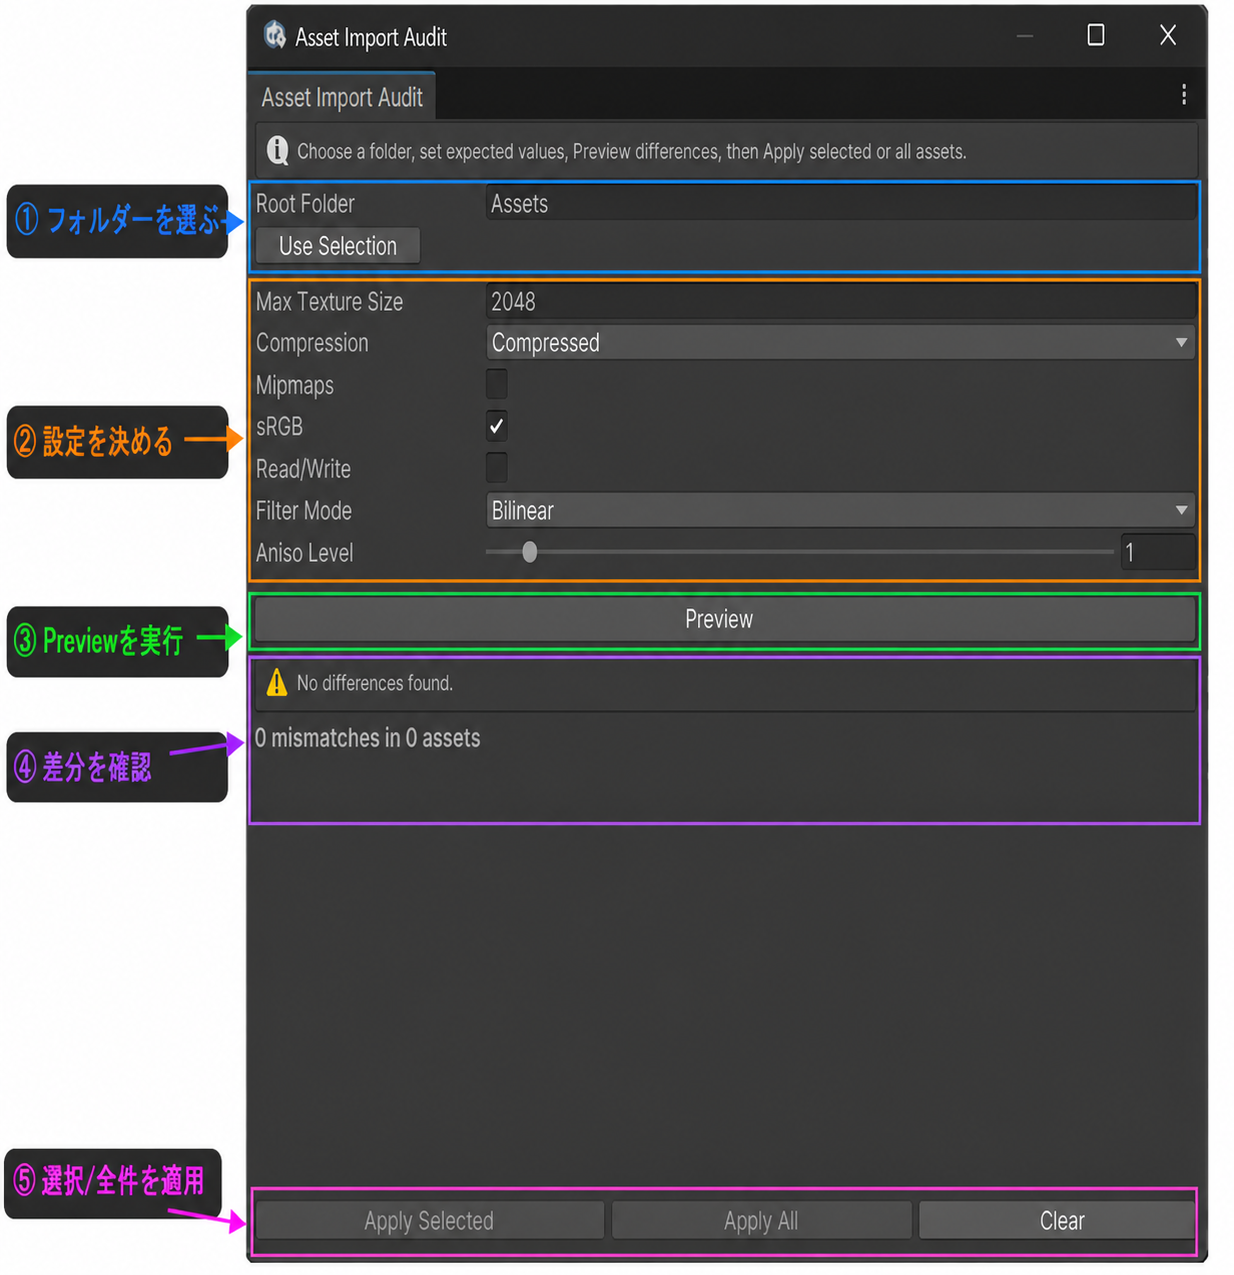
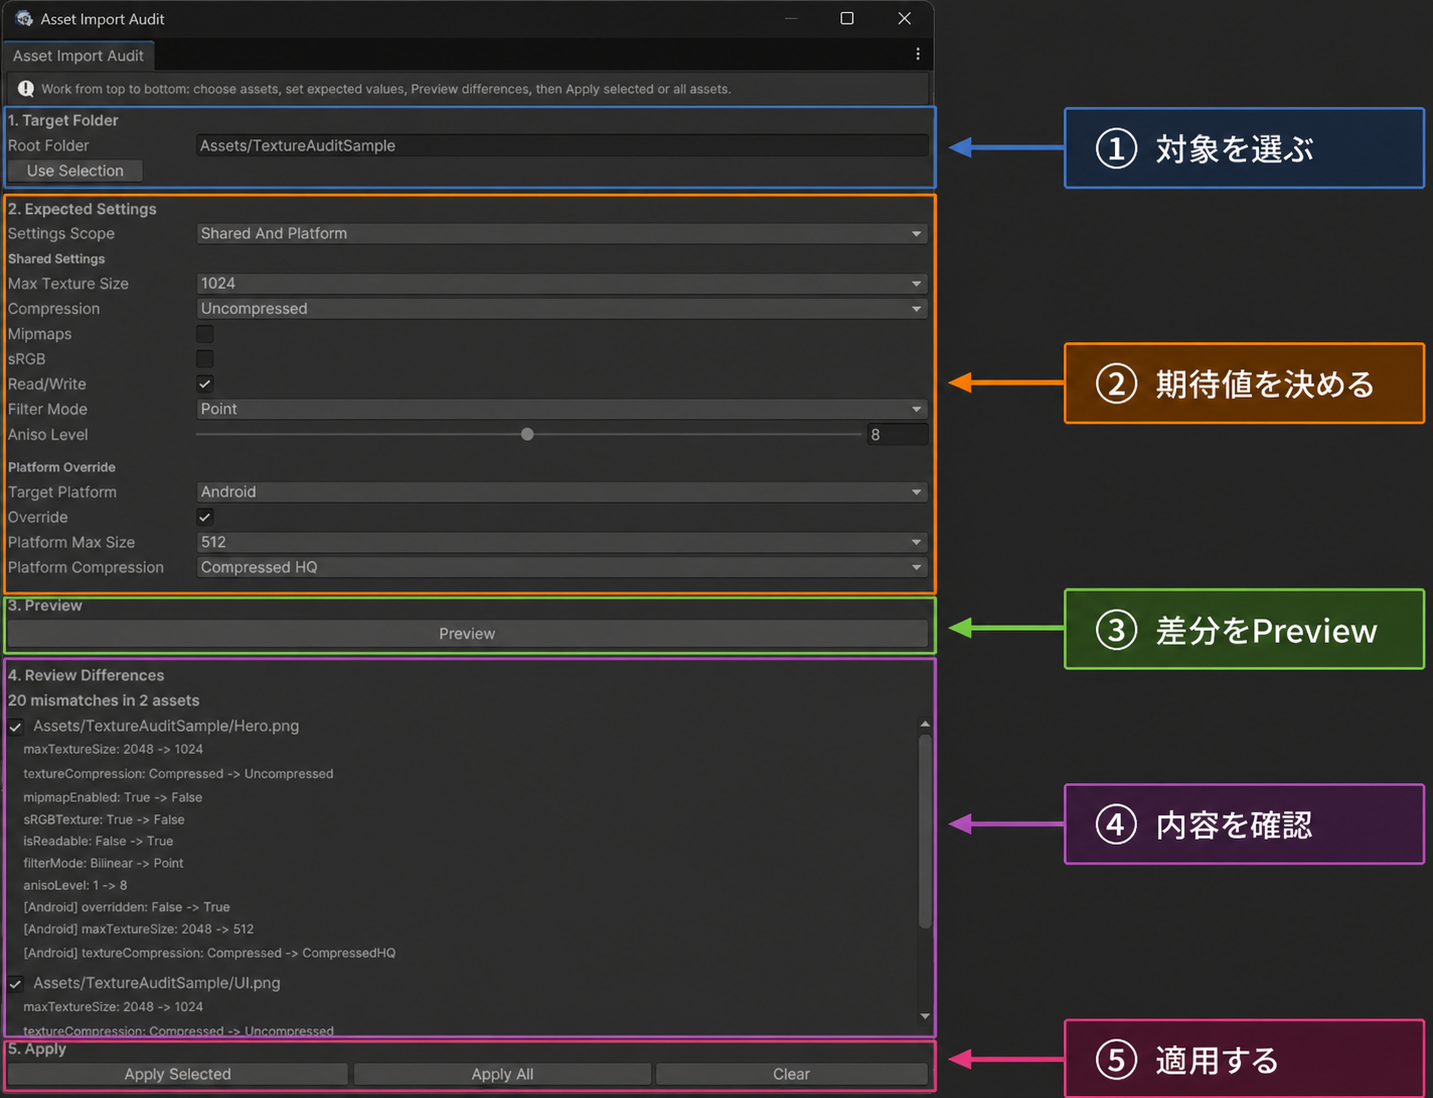
other (AssetImportAudit配布情報): プラットフォーム設定の操作順と変更範囲を導入前に判断できるようにする為、README・利用文書・操作画像・UPM情報を更新

diff --git a/AssetImportAudit/README.md b/AssetImportAudit/README.md
@@ -2,44 +2,84 @@
 
 ## 30秒で分かる説明
 
-Texture Import Settings をフォルダー単位で一覧化し、同じ設定へそろえるための Editor 専用ツールです。毎回 Inspector を開いて texture を1枚ずつ確認する作業を、5段階の手順にまとめます。
-
-## 最短の使い方
-
-1. Package Manager へ公開 tag の Git URL を追加します。
-2. `Tools > Asset Import Audit > Open` を開きます。
-3. `Root Folder` に `Assets/Art/Textures` などを入力するか、Project window でフォルダーを選んで `Use Selection` を押します。
-4. Max Texture Size などの期待値を決めます。
-5. `Preview` で差分を確認し、対象を選んで `Apply Selected`、または全件を `Apply All` します。
-
-![アセット設定チェックの操作順](Documentation~/asset-import-audit-guide.png)
-
-画像の番号どおり、①フォルダーを選ぶ → ②設定を決める → ③Previewを実行 → ④差分を確認 → ⑤選択/全件を適用、の順に操作します。
-
-初期値は一般的なカラーテクスチャ向けです。最大サイズ 2048、Compression、Mipmaps 無効、sRGB 有効、Read/Write 無効、Bilinear、Aniso 1 になっています。プロジェクトの用途に合わせて Preview 前に変更してください。
+Texture Import Settingsをfolder単位で一覧化し、共通設定とStandalone・Android・iOS向け設定をまとめてそろえるEditor専用ツールです。Textureを1枚ずつ選び、Inspector下部のplatform tabを何度も開く作業を、Previewから適用までの5段階にまとめます。
 
 ## できること
 
-- `Assets` 配下の Texture2D を決定論的なパス順で検査する。
-- Max Texture Size、Compression、Mipmaps、sRGB、Read/Write、Filter Mode、Aniso Level を比較する。
-- Preview 時点の importer 状態を保持し、Apply 前に外部変更を検出する。
-- 選択した asset だけ、または差分のある asset 全件を適用する。
+- `Assets`配下のTexture2Dを決定論的なpath順で検査する。
+- 共通のMax Texture Size、Compression、Mipmaps、sRGB、Read/Write、Filter Mode、Aniso Levelを比較・適用する。
+- Standalone・Android・iOSのOverride、Max Texture Size、Compressionを比較・適用する。
+- 共通設定だけ、platform設定だけ、または両方を一度にPreviewする。
+- Max Texture SizeをUnity Importerのpreset（32～16384）から選び、再Previewで確実に収束させる。
+- Preview後の外部変更を検出し、選択対象を一部だけ更新せず全件停止する。
+- 選択したAssetだけ、または差分のあるAsset全件を適用する。
 
-## 変更範囲と安全策
+## 使わない方がよい場合
 
-- 対象は入力した `Assets` フォルダー以下の Texture2D だけです。
-- Package、Scene、Prefab、Material、参照、ファイル名は変更しません。
-- Preview 後に importer が変わっていれば、全件を適用せず `StalePlan` で停止します。
-- Apply 後の再importは Unity の通常の importer 処理で行われます。大きなフォルダーでは時間とメモリを使うため、最初は小さいサブフォルダーで確認してください。
-- これは unused asset 検出や圧縮方式の自動最適化ではありません。正しい値はプロジェクト側で選びます。
+画像を見て自動的に最適な圧縮形式を選びたい場合や、Addressables・Resourcesの参照、unused asset、削除・Renameを調べたい場合には向きません。このツールは利用者が決めたImporter設定を安全にそろえる用途へ限定しています。
 
-## 公開 API
+## 3分で試す
 
-- `AssetImportAuditTextureSettings`: 期待する Texture Import Settings。
-- `AssetImportAuditService.Preview`: 差分と再確認用 plan を作成。
-- `AssetImportAuditService.Apply`: plan を全件または選択 asset へ適用。
-- `AssetImportAuditPlan` / `AssetImportAuditIssue` / `AssetImportAuditApplyResult`: Preview と結果を確認する値。
+1. Package Managerの`Add package from git URL...`へ次を入力します。
+
+   ```text
+   https://github.com/mynameisGaku/UnityModules.git?path=/AssetImportAudit#asset-import-audit-v1.1.0
+   ```
+
+2. `Tools > Asset Import Audit > Open`を開きます。
+3. ①`Root Folder`へ`Assets/Art/Textures`などを入力するか、Project windowでfolderを選んで`Use Selection`を押します。
+4. ②`Settings Scope`を選び、共通設定またはplatform overrideの期待値を決めます。iOSはUnity内部の`iPhone`設定へ対応します。
+5. ③`Preview`を押します。
+6. ④Assetごとの現在値と期待値を確認し、適用するAssetを選びます。
+7. ⑤`Apply Selected`または`Apply All`を押します。
+
+![アセット設定チェックの操作順](Documentation~/asset-import-audit-guide.png)
+
+<details>
+<summary>注釈を加える前の実際のEditorWindow</summary>
+
+![実際のAsset Import Audit画面](Documentation~/asset-import-audit-window.png)
+
+</details>
+
+## 実行するとどうなるか
+
+差分があるAssetはpathごとに並び、共通設定は設定名、platform設定は`[Standalone]`・`[Android]`・`[iOS]`付きで現在値から期待値への変化を表示します。Applyすると対象TextureがUnityの通常処理で再importされ、完了後に同じ条件で再Previewされます。差分がなくなれば`No differences found.`と表示されます。
+
+platform overrideを無効にする場合は、Overrideだけを無効化します。Texture format、resize algorithm、compression qualityなど、このmoduleが所有しないplatform設定は保持します。active build targetは切り替えません。
+
+## よくある問題
+
+### Applyが`StalePlan`で止まる
+
+Preview後にInspector、script、別のEditor拡張などが対象Importerを変更しています。現在の状態を勝手に上書きしないための停止です。もう一度Previewして差分を確認してください。
+
+### platformのCompression形式を自動選択してほしい
+
+端末世代、画質、alpha、配布先によって正解が異なるため、自動推測しません。このmoduleが扱う`TextureImporterCompression`はUnityのLow・Normal・High相当の方針です。具体的なGPU formatはUnityのImporterと利用側のtarget方針で決めてください。
+
+### 大きなfolderで時間がかかる
+
+ApplyしたTextureは再importされます。最初は小さいsubfolderを選び、差分と所要時間を確認してから範囲を広げてください。
+
+## 公開API
+
+- `AssetImportAuditTextureSettings`: 共通Texture Import Settings。
+- `AssetImportAuditTexturePlatformSettings`: platform overrideの期待値。
+- `AssetImportAuditTextureAuditSettings`: 共通・platform・両方の検査範囲。
+- `AssetImportAuditService.Preview`: 差分と再確認用planを作成する。
+- `AssetImportAuditService.Apply`: planを全件または選択Assetへ適用する。
+- `AssetImportAuditPlan` / `AssetImportAuditIssue` / `AssetImportAuditApplyResult`: Previewと結果を確認する値。
+
+## 変更範囲と失敗条件
+
+- 対象は入力した`Assets` folder以下のTexture2Dだけです。
+- Package、Scene、Prefab、Material、参照、file名、画像dataは変更しません。
+- selected applyでは、選択した全Importerを先に再確認します。1件でも消失・変更していれば、選択対象を1件も変更しません。
+- Apply開始後の予期しないUnity Importer例外について、transaction rollbackは保証しません。結果が`ApplyFailed`の場合はImporterを確認して再Previewしてください。
+- `ApplyFailed`の`AppliedAssetCount`には、例外が起きる前に再importまで完了したAsset数が入ります。
+- platform format、resize algorithm、Crunch、compression quality、alpha split、Android ETC2 fallbackは変更しません。
 
 ## 非目標
 
-Addressables、Resources の依存解析、unused asset 判定、画像内容の品質判定、ファイル削除・Rename、参照置換、build 時の自動変更は扱いません。
+Addressables、Resourcesの依存解析、unused asset判定、画像内容の品質判定、file削除・Rename、参照置換、build時の自動変更、active build target切替、platform formatの自動推測は扱いません。

diff --git a/AssetImportAudit/Documentation~/index.md b/AssetImportAudit/Documentation~/index.md
@@ -1,23 +1,46 @@
-# アセット設定チェック 1.0.0
+# アセット設定チェック 1.1.0
 
 ## 目的
 
-Texture Import Settings のばらつきを、対象フォルダー単位で確認して安全にそろえます。Build Guard が Scene と Prefab の不備、Reference Finder が参照と Rename を担当するのに対し、この module は importer の設定だけを担当します。
+Texture Import Settingsのばらつきを、対象folder単位で確認して安全にそろえます。共通設定に加え、Standalone・Android・iOS向けOverrideを同じ画面でPreviewできます。Build GuardはSceneとPrefabの不備、Reference Finderは参照とRename、このmoduleはImporter設定を担当します。
 
-## 使い方
+## 操作順
 
-`Tools > Asset Import Audit > Open` で画面を開き、①対象 `Assets` フォルダーを選び、②期待値を指定し、③`Preview` を押します。④差分を確認したら、⑤`Apply Selected` または `Apply All` を押してください。Apply 前に importer の値が変わっていた場合は、Preview をやり直すまで停止します。
+1. ①`Assets`配下の対象folderを選びます。
+2. ②`Settings Scope`をShared Settings、Platform Override、Shared And Platformから選び、期待値を設定します。
+3. ③`Preview`を押します。
+4. ④pathごとの現在値と期待値を確認します。
+5. ⑤`Apply Selected`または`Apply All`を押します。
 
 ![アセット設定チェックの操作順](asset-import-audit-guide.png)
 
-## 設定項目
+## 共通設定とplatform設定
 
-Max Texture Size、Texture Compression、Mipmap Enabled、sRGB Texture、Read/Write、Filter Mode、Aniso Level を比較・適用します。値の意味は Unity の Texture Import Settings に従います。
+| Scope | 比較・適用する値 |
+| --- | --- |
+| Shared Settings | Max Texture Size、Texture Compression、Mipmap Enabled、sRGB Texture、Read/Write、Filter Mode、Aniso Level |
+| Platform Override | Standalone・Android・iOSのOverride、Max Texture Size、Texture Compression |
+| Shared And Platform | 上記の両方 |
 
-## 変更されないもの
+iOSはUnityのImporter APIで`iPhone`というplatform名へ対応します。active build targetは変更しません。Overrideを無効にする場合はOverrideだけを変更し、Max Texture Size、Compression、format、resize algorithmなど他の値は保持します。
 
-Package 配下、Scene、Prefab、Material、Asset の参照、ファイル名、画像データそのものは変更しません。削除や unused 判定も行いません。
+Max Texture SizeはUnity Importerが表示する32～16384のpresetから選択します。任意の整数を入力してImporter側の補正と再Previewを繰り返す状態にはしません。
 
 ## 適用前の確認
 
-Apply 前に別の importer 操作を行った場合は、自動で全件適用を拒否します。対象を小さいフォルダーから確認し、差分の内容を見てから適用してください。
+Apply前に、選択対象すべての管理対象値をPreview時点のsnapshotと比較します。1件でもImporterが消失・変更していれば、選択対象を一部だけ変更せず`StalePlan`で停止します。未選択Assetの変更は、選択したAssetの適用を妨げません。
+
+![狭いEditorWindowでもApplyを確認できるPreview画面](asset-import-audit-preview.png)
+
+## 変更されないもの
+
+Package配下、Scene、Prefab、Material、Asset参照、file名、画像data、active build targetは変更しません。platform固有のformat、resize algorithm、Crunch、compression quality、alpha split、Android ETC2 fallbackも変更しません。
+
+## 再import
+
+ApplyしたTextureはUnityの通常処理で再importされます。大きなfolderでは時間とmemoryを使うため、小さいsubfolderから確認してください。
+
+## Unity公式資料
+
+- [Platform-specific texture overrides panel reference](https://docs.unity3d.com/ja/current/Manual/class-TextureImporter-type-specific.html)
+- [TextureImporterPlatformSettings](https://docs.unity3d.com/ja/current/ScriptReference/TextureImporterPlatformSettings.html)

diff --git a/AssetImportAudit/CHANGELOG.md b/AssetImportAudit/CHANGELOG.md
@@ -1,5 +1,15 @@
 # Changelog
 
+## [1.1.0] - 2026-08-23
+
+- Added Standalone, Android, and iOS Texture Import Settings override preview and apply.
+- Added shared-only, platform-only, and combined audit scopes.
+- Added all-or-nothing stale preflight for selected platform settings.
+- Reworked the Editor window and documentation into a fixed five-step workflow.
+- Added wide and narrow Editor look-development coverage with an annotated workflow guide.
+- Deferred GUI style creation until drawing so the window reopens safely after a domain reload.
+- Restricted maximum texture sizes to Unity importer presets so apply and re-preview converge.
+
 ## [1.0.0] - 2026-08-23
 
 - Added deterministic Texture Import Settings preview and apply for Assets folders.
